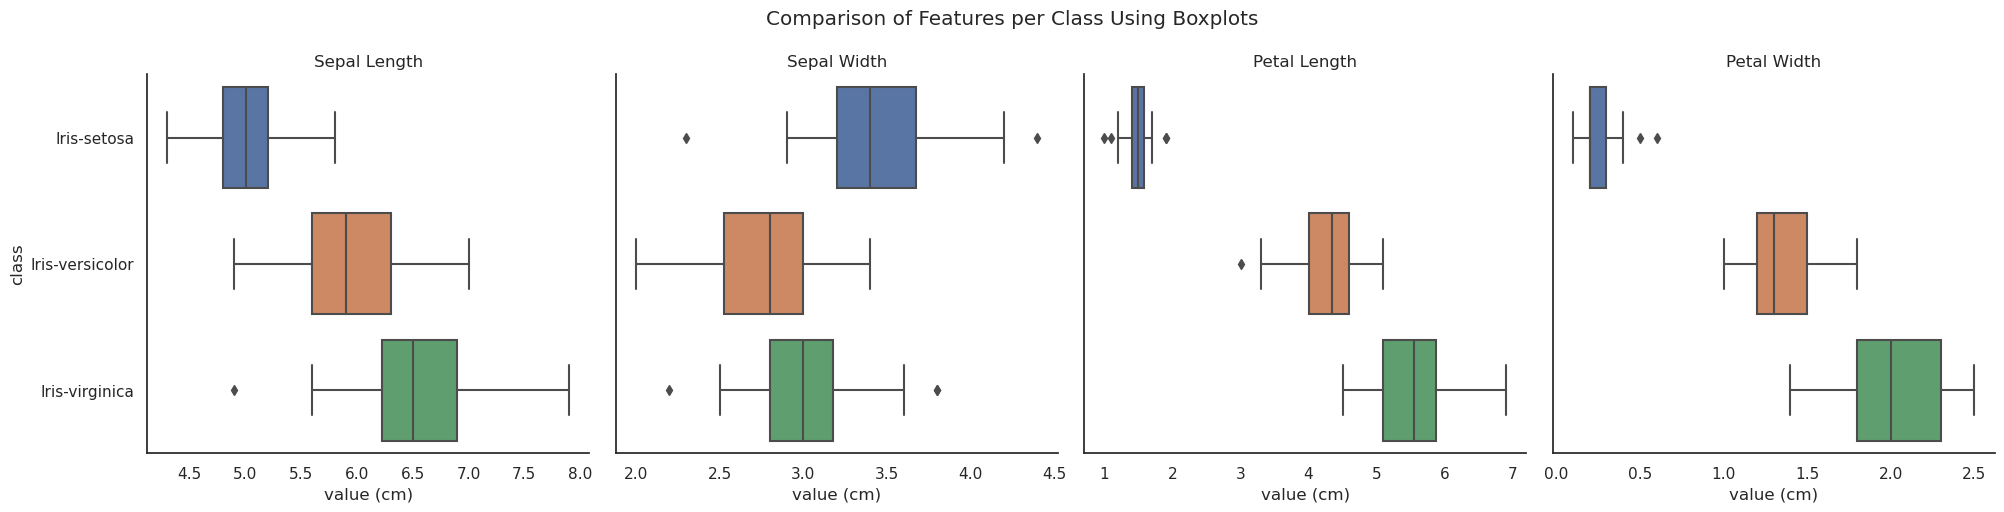
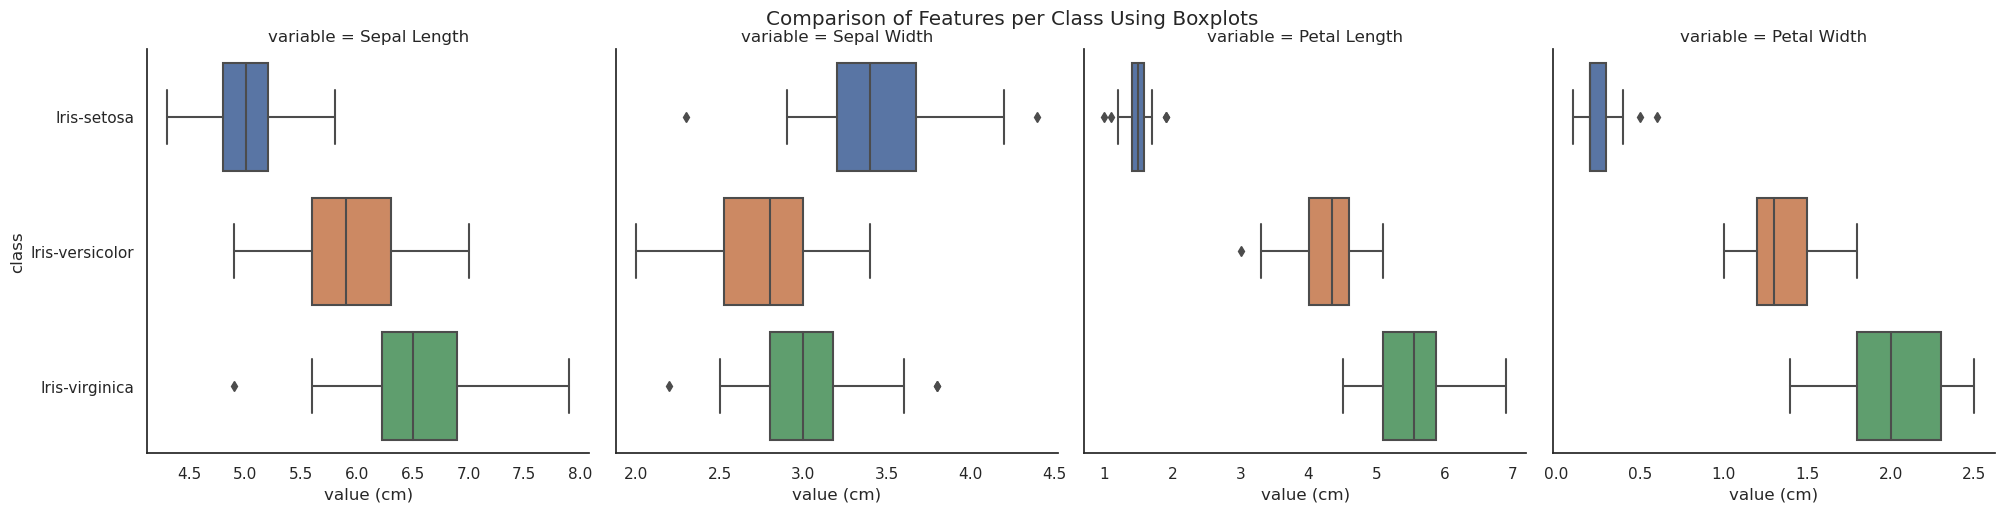
adjusted titles on some plots

diff --git a/analysis_plots.py b/analysis_plots.py
@@ -16,11 +16,12 @@ Keeping these functions in a dedicated plots file will hopefully keep
 the main analysis file more manageable in terms of length and comlexity.
 """
 
-def label_grid(grid, axis_labels=None, title=None):
+def label_grid(grid, axis_labels=None, title=None, grid_titles=False):
 # Helper function for labeling axes and titling Seaborn facetgrids
 
     # Set subplot titles
-    grid.set_titles(col_template="{col_name}", row_template="{row_name}")
+    if grid_titles:
+        grid.set_titles(col_template="{col_name}", row_template="{row_name}")
 
     # Set axis labels if provided
     if axis_labels:
@@ -28,7 +29,7 @@ def label_grid(grid, axis_labels=None, title=None):
 
     # Set grid title if provided    
     if title:
-        grid.fig.subplots_adjust(top=0.85)
+        grid.fig.subplots_adjust(top=0.9)
         grid.fig.suptitle(title)
 
 
@@ -164,10 +165,7 @@ def pairplots(data=None, title=None, filename=None):
     
     g = sns.pairplot(data, hue="class", kind="scatter")
 
-    # Set title if specified
-    if title:                  
-        g.fig.subplots_adjust(top=0.95)
-        g.fig.suptitle(title)
+    label_grid(g, title=title)
 
     # Save to specified path
     if filename:
